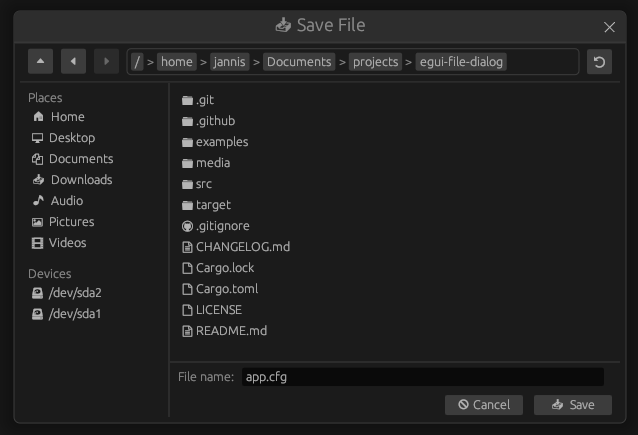
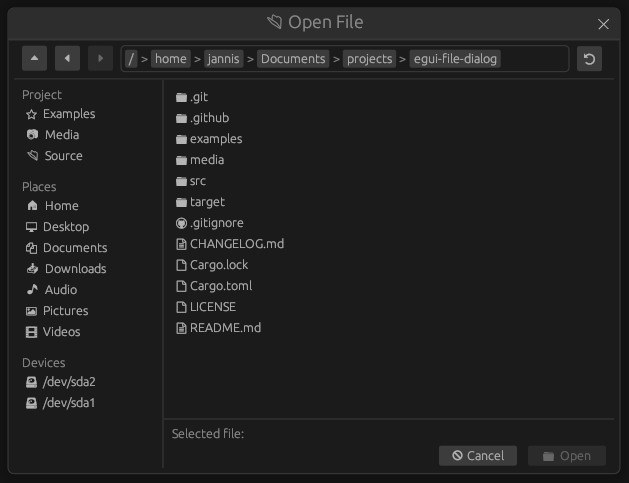
Fix spacing and update examples

Changed region(s): [[0.0, 0.0, 0.9968, 0.8667], [0.6948, 0.8966, 0.9666, 0.9862], [0.2719, 0.8368, 0.4531, 0.9264]]

diff --git a/src/file_dialog.rs b/src/file_dialog.rs
@@ -1112,8 +1112,18 @@ impl FileDialog {
                 .show(ui, |ui| {
                     let mut spacing = ui.ctx().style().spacing.item_spacing.y * 2.0;
 
-                    self.ui_update_quick_accesses(ui);
+                    // Update custom quick access sections
+                    let quick_accesses = std::mem::take(&mut self.config.quick_accesses);
 
+                    for quick_access in &quick_accesses {
+                        ui.add_space(spacing);
+                        self.ui_update_quick_access(ui, quick_access);
+                        spacing = ui.ctx().style().spacing.item_spacing.y * 4.0;
+                    }
+
+                    self.config.quick_accesses = quick_accesses;
+
+                    // Update native quick access sections
                     if self.config.show_places && self.ui_update_user_directories(ui, spacing) {
                         spacing = ui.ctx().style().spacing.item_spacing.y * 4.0;
                     }
@@ -1134,17 +1144,6 @@ impl FileDialog {
                     self.system_disks = disks;
                 });
         });
-    }
-
-    fn ui_update_quick_accesses(&mut self, ui: &mut egui::Ui) {
-        let quick_accesses = std::mem::take(&mut self.config.quick_accesses);
-
-        // TODO: Update spacing
-        for quick_access in &quick_accesses {
-            self.ui_update_quick_access(ui, quick_access);
-        }
-
-        self.config.quick_accesses = quick_accesses;
     }
 
     /// Updates a custom quick access section added to the left panel.

diff --git a/examples/sandbox/src/main.rs b/examples/sandbox/src/main.rs
@@ -14,7 +14,13 @@ struct MyApp {
 impl MyApp {
     pub fn new(_cc: &eframe::CreationContext) -> Self {
         Self {
-            file_dialog: FileDialog::new().id("egui_file_dialog"),
+            file_dialog: FileDialog::new()
+                .add_quick_access("Project", |s| {
+                    s.add_path("☆  Examples", "examples");
+                    s.add_path("📷  Media", "media");
+                    s.add_path("📂  Source", "src");
+                })
+                .id("egui_file_dialog"),
 
             selected_directory: None,
             selected_file: None,

diff --git a/src/config.rs b/src/config.rs
@@ -38,7 +38,10 @@ pub struct QuickAccess {
 }
 
 impl QuickAccess {
-    /// Adds a new path to this quick access area.
+    /// Adds a new path to the quick access.
+    ///
+    /// Since `fs::canonicalize` is used, both absolute paths and relative paths are allowed.
+    /// See `FileDialog::canonicalize_paths` for more information.
     ///
     /// See `FileDialogConfig::add_quick_access` for an example.
     pub fn add_path(&mut self, display_name: &str, path: impl Into<PathBuf>) {

diff --git a/README.md b/README.md
@@ -127,6 +127,12 @@ FileDialog::new()
     .show_new_folder_button(false)
     .show_search(false)
     .show_path_edit_button(false)
+    // Add a new quick access section to the left sidebar
+    .add_quick_access("Project", |s| {
+        s.add_path("☆  Examples", "examples");
+        s.add_path("📷  Media", "media");
+        s.add_path("📂  Source", "src");
+    })
     // Markdown and text files should use the "document with text (U+1F5B9)" icon
     .set_file_icon(
         "🖹",
